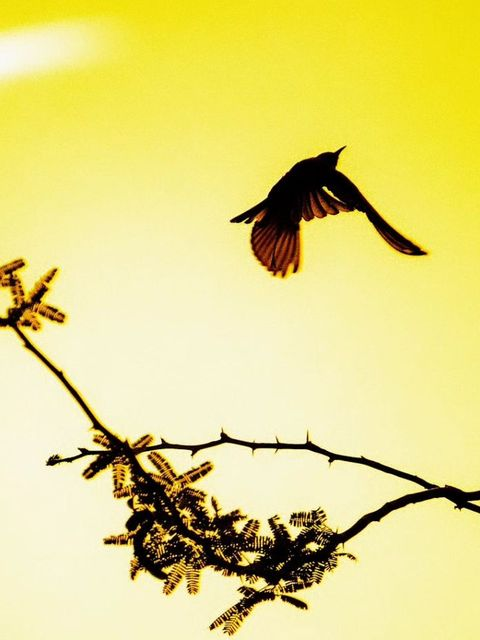
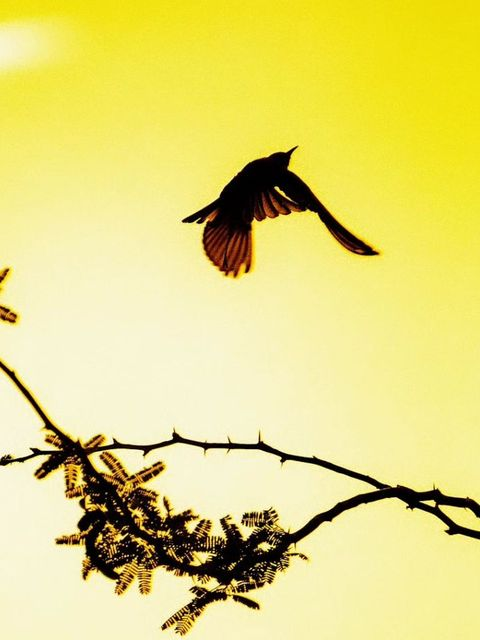
Research card shows the paper's front page; ring uses the strongest photos
Claude-Session: https://claude.ai/code/session_019bsvQHgdvSXVa5CoNSLeW8

diff --git a/index.html b/index.html
@@ -160,7 +160,7 @@
     </article>
 
     <article class="project reveal">
-      <div class="p-img p-type"><div><div class="big">585</div><div class="cap">funded Indian startups · USD 1.95B</div></div></div>
+      <div class="p-img p-paper"><span class="tag-float">RESEARCH · VENTURE CAPITAL · 2025</span><div class="sheet"><img src="img/paper-front.jpg" width="1241" height="960" alt="Front page of the paper Investigating Key Factors for Initial Funding of Indian Startups, by Somya Jangir and Subham Agrawal" loading="lazy"></div></div>
       <div>
         <div class="p-meta">Research paper · with Somya Jangir, under Dr. Sanyka Banerjee · 2025</div>
         <h3>Key Factors for Initial Funding of Indian Startups</h3>
@@ -247,18 +247,18 @@
   <div class="sec-head reveal"><div><span class="num">06 / BEYOND THE ANALYSIS</span><h2>Off <em>the clock.</em></h2></div><p>Photography, film, guitar, books, trails and the gym. <a href="life.html" style="color:var(--accent)">See the other half →</a></p></div>
   <div class="ring reveal" id="ring" data-cursor="Drag">
     <div class="ring-in">
-      <a href="life.html#gallery" style="--i:0"><img src="img/thumbs/peacock-display.jpg" width="480" height="640" alt="Peacock in full display" loading="lazy" draggable="false"></a>
-      <a href="life.html#gallery" style="--i:1"><img src="img/thumbs/sunset-valley.jpg" width="480" height="640" alt="Sunset over misty mountain valleys" loading="lazy" draggable="false"></a>
-      <a href="life.html#gallery" style="--i:2"><img src="img/thumbs/street-gate.jpg" width="480" height="640" alt="Sardar Market gate in Jodhpur, a dog crossing the empty square" loading="lazy" draggable="false"></a>
-      <a href="life.html#gallery" style="--i:3"><img src="img/thumbs/bird-liftoff.jpg" width="480" height="640" alt="Bird lifting off a branch at golden hour" loading="lazy" draggable="false"></a>
-      <a href="life.html#gallery" style="--i:4"><img src="img/thumbs/camp-night.jpg" width="480" height="640" alt="Tents in a meadow under a night sky" loading="lazy" draggable="false"></a>
-      <a href="life.html#gallery" style="--i:5"><img src="img/thumbs/stepwell-splash.jpg" width="480" height="640" alt="A splash rising from the water of a stone stepwell" loading="lazy" draggable="false"></a>
-      <a href="life.html#gallery" style="--i:6"><img src="img/thumbs/hiker-peaks.jpg" width="480" height="640" alt="A lone hiker below a snow-streaked rock face" loading="lazy" draggable="false"></a>
-      <a href="life.html#gallery" style="--i:7"><img src="img/thumbs/fort-blue.jpg" width="480" height="640" alt="A sandstone fort above blue houses" loading="lazy" draggable="false"></a>
-      <a href="life.html#gallery" style="--i:8"><img src="img/thumbs/moon.jpg" width="480" height="640" alt="The moon, up close" loading="lazy" draggable="false"></a>
-      <a href="life.html#gallery" style="--i:9"><img src="img/thumbs/green-doors.jpg" width="480" height="640" alt="Open green doors framing a blue courtyard" loading="lazy" draggable="false"></a>
-      <a href="life.html#gallery" style="--i:10"><img src="img/thumbs/raptor-peaks.jpg" width="480" height="640" alt="A raptor gliding in front of a rocky peak" loading="lazy" draggable="false"></a>
-      <a href="life.html#gallery" style="--i:11"><img src="img/thumbs/tower-reflection.jpg" width="480" height="640" alt="A clock tower reflected upside down" loading="lazy" draggable="false"></a>
+      <a href="life.html#gallery" style="--i:0"><img src="img/thumbs/hero-alpenglow.jpg" width="480" height="640" alt="Pink alpenglow on a snow peak, framed by dark pines" loading="lazy" draggable="false"></a>
+      <a href="life.html#gallery" style="--i:1"><img src="img/thumbs/peacock-display.jpg" width="480" height="640" alt="Peacock in full display" loading="lazy" draggable="false"></a>
+      <a href="life.html#gallery" style="--i:2"><img src="img/thumbs/bird-liftoff.jpg" width="480" height="640" alt="Bird lifting off a branch against a golden sky" loading="lazy" draggable="false"></a>
+      <a href="life.html#gallery" style="--i:3"><img src="img/thumbs/moon.jpg" width="480" height="640" alt="The moon, up close" loading="lazy" draggable="false"></a>
+      <a href="life.html#gallery" style="--i:4"><img src="img/thumbs/sunset-valley.jpg" width="480" height="640" alt="Sunset over misty mountain valleys" loading="lazy" draggable="false"></a>
+      <a href="life.html#gallery" style="--i:5"><img src="img/thumbs/pandal.jpg" width="480" height="640" alt="Ganpati pandal decorated with marigolds" loading="lazy" draggable="false"></a>
+      <a href="life.html#gallery" style="--i:6"><img src="img/thumbs/snow-ridge.jpg" width="480" height="640" alt="Snow-dusted ridge against a clear blue sky" loading="lazy" draggable="false"></a>
+      <a href="life.html#gallery" style="--i:7"><img src="img/thumbs/climb-dog.jpg" width="480" height="640" alt="Silhouette of a hiker and a dog climbing at sunset" loading="lazy" draggable="false"></a>
+      <a href="life.html#gallery" style="--i:8"><img src="img/thumbs/camp-night.jpg" width="480" height="640" alt="Tents in a meadow under a night sky" loading="lazy" draggable="false"></a>
+      <a href="life.html#gallery" style="--i:9"><img src="img/thumbs/bikaner.jpg" width="480" height="640" alt="Red sandstone building in Bikaner, seen from below" loading="lazy" draggable="false"></a>
+      <a href="life.html#gallery" style="--i:10"><img src="img/thumbs/taking-it-in.jpg" width="480" height="640" alt="A trekker on a rock looking out at a mountain range" loading="lazy" draggable="false"></a>
+      <a href="life.html#gallery" style="--i:11"><img src="img/thumbs/dog-asleep.jpg" width="480" height="640" alt="Golden camp dog curled up asleep" loading="lazy" draggable="false"></a>
     </div>
   </div>
   <p class="ring-cap reveal"><span>Drag to spin</span><a href="life.html">27 frames in three chapters →</a></p>

diff --git a/style.css b/style.css
@@ -108,10 +108,11 @@ section{padding:130px 0 0}
 .p-img{border-radius:18px;overflow:hidden;background:#fff;border:1px solid var(--line);aspect-ratio:16/10;position:relative}
 .p-img img{width:100%;height:100%;object-fit:cover}
 .p-img .tag-float{position:absolute;z-index:1;left:14px;top:14px;background:rgba(10,11,13,.82);color:#fff;font-family:var(--mono);font-size:11px;padding:5px 10px;border-radius:999px;letter-spacing:.06em}
-.p-type{background:radial-gradient(circle at 50% 40%,color-mix(in srgb,var(--accent) 22%,var(--surface)),var(--surface))!important;display:grid;place-items:center;padding:32px}
-.p-type>div{text-align:center}
-.p-type .big{font-family:var(--display);font-weight:600;letter-spacing:-.05em;font-size:clamp(64px,9vw,128px);line-height:1;color:var(--accent)}
-.p-type .cap{font-family:var(--mono);font-size:12px;color:var(--muted);text-align:center;letter-spacing:.08em;text-transform:uppercase}
+.p-paper{background:radial-gradient(circle at 50% 28%,color-mix(in srgb,var(--accent) 30%,var(--surface)),var(--surface) 72%)!important;perspective:900px}
+.p-paper .sheet{position:absolute;left:50%;top:19%;width:72%;translate:-50% 0;transform:rotateX(16deg) rotateZ(-4deg);transform-origin:50% 0;border-radius:3px;background:#fff;box-shadow:0 0 0 1px rgba(0,0,0,.08),9px -9px 0 -1px #ecebe5,18px -18px 0 -2px #d6d5ce,0 40px 70px -24px rgba(0,0,0,.65);transition:transform .9s var(--ease)}
+.p-paper .sheet img{display:block;width:100%;height:auto;border-radius:3px}
+.project:hover .p-paper .sheet{transform:rotateX(5deg) rotateZ(-1deg) translateY(-12px)}
+@media (max-width:600px){.p-paper .sheet{top:25%}}
 .p-meta{font-family:var(--mono);font-size:11.5px;color:var(--muted);letter-spacing:.06em;text-transform:uppercase}
 .project h3{font-weight:600;font-size:clamp(25px,2.4vw,34px);line-height:1.05;letter-spacing:-.035em;margin:10px 0 14px}
 .project ul{margin:0;padding-left:18px;color:var(--muted);font-size:15px;line-height:1.55}

diff --git a/main.js b/main.js
@@ -328,7 +328,7 @@
     els.forEach(function(el){io.observe(el);});
     if(reduce)return;
     var co=new IntersectionObserver(function(es){es.forEach(function(e){if(e.isIntersecting){countUp(e.target);co.unobserve(e.target);}});},{threshold:.6});
-    all('.stat b,.project li b,.p-type .big').forEach(function(el){co.observe(el);});
+    all('.stat b,.project li b').forEach(function(el){co.observe(el);});
   }
 
   // Intro: a short preloader on the first visit, a curtain after moving between pages.
